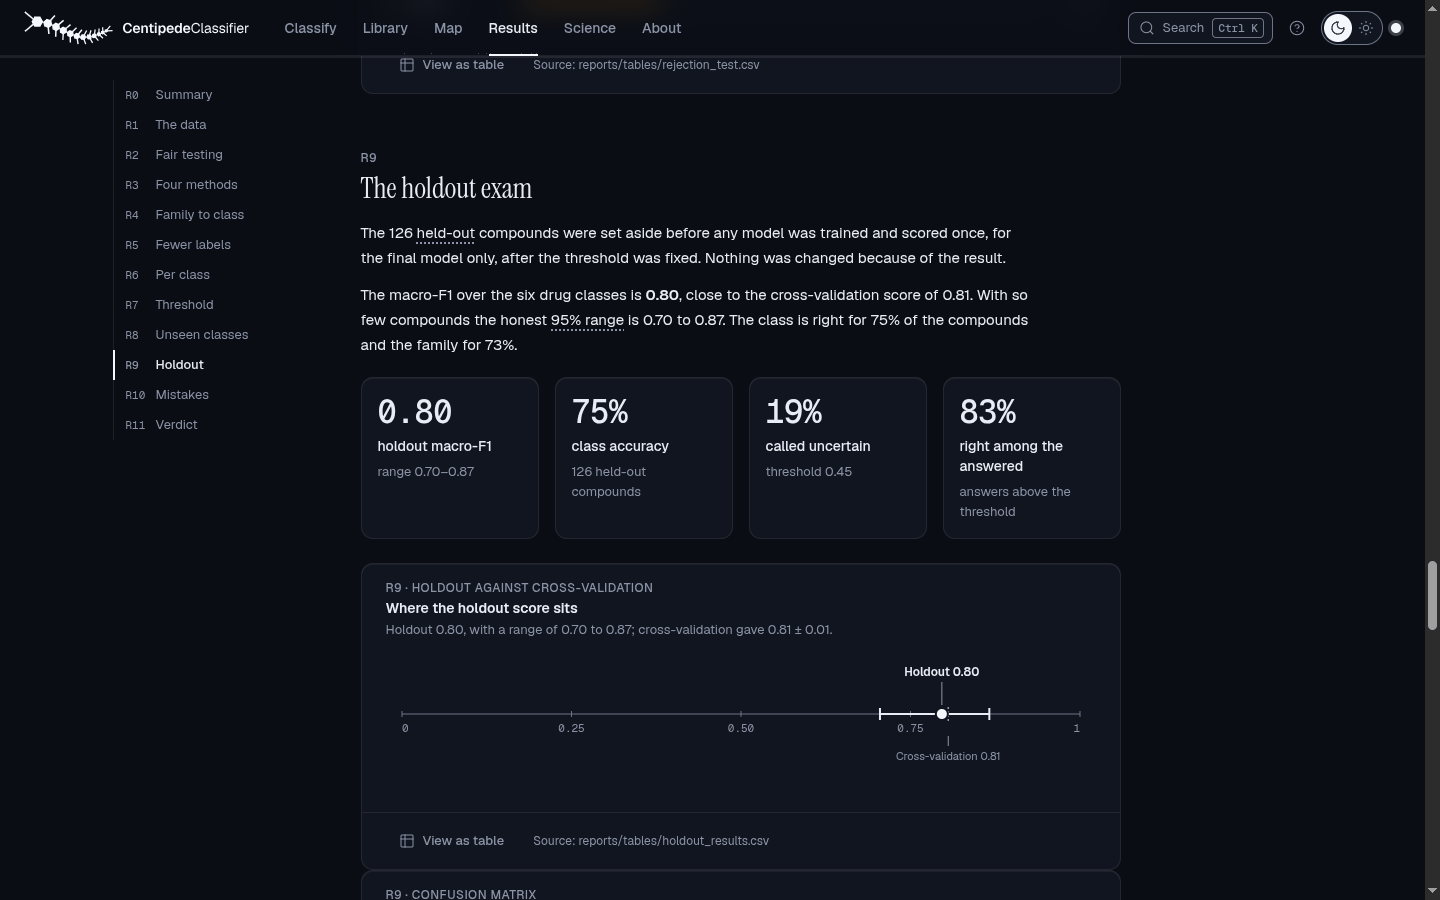
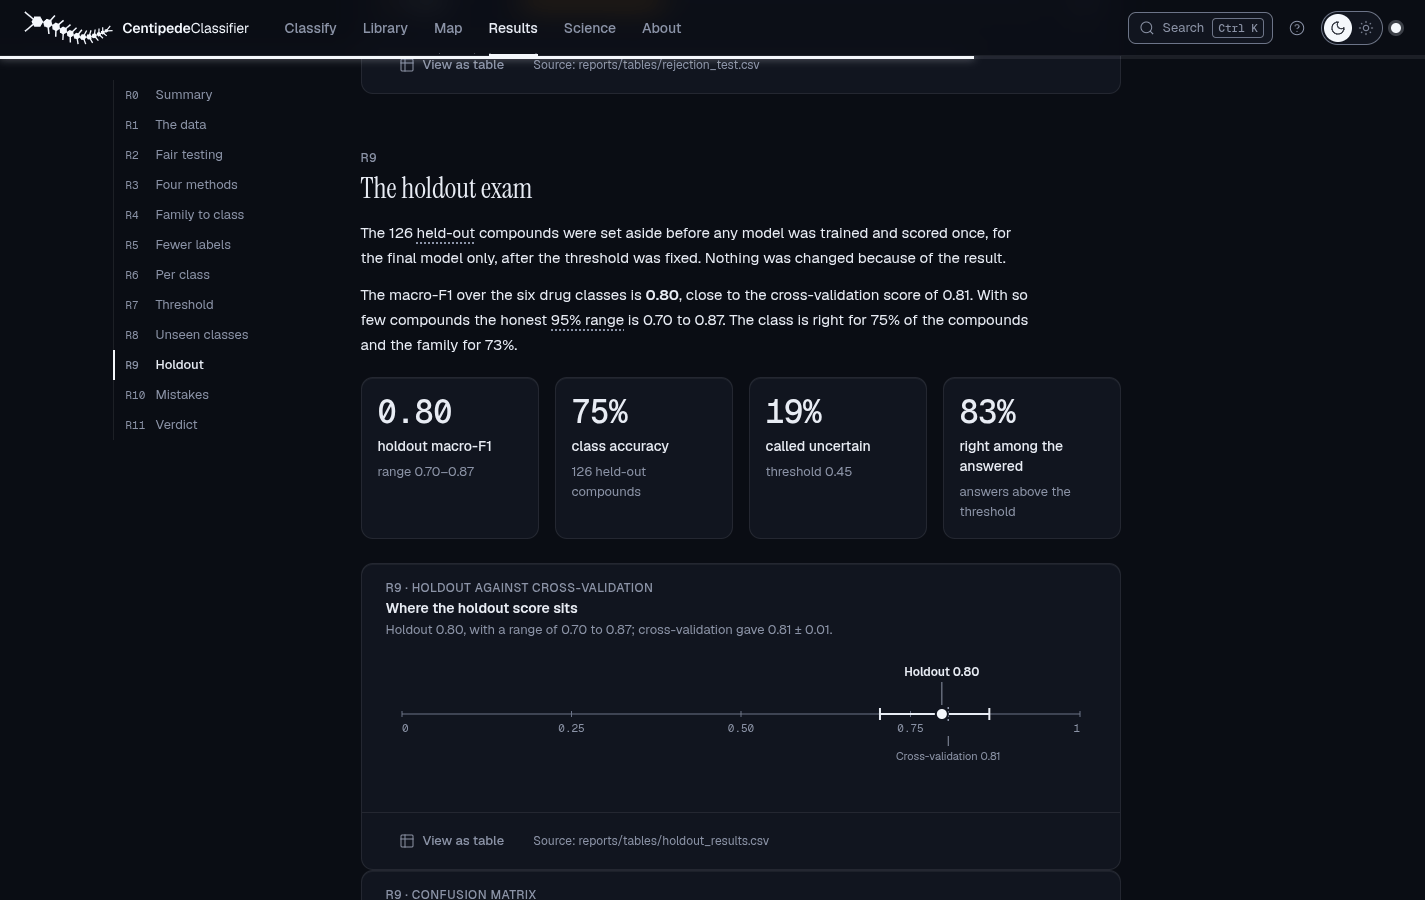
Fix the reading progress line and refresh the screenshots

diff --git a/app/frontend/app/globals.css b/app/frontend/app/globals.css
@@ -206,7 +206,8 @@ body { padding-bottom: var(--tabbar-h, 60px); }
   .ms-nav--app .ms-toggle { display: inline-flex; }
 }
 .ms-footer--app { margin-top: var(--space-16); }
-.ms-progress--fixed { position: fixed; top: var(--nav-height); left: 0; right: 0; z-index: 39; }
+.ms-progress--fixed { position: fixed; top: var(--nav-height); left: 0; right: 0; z-index: 39; height: 3px; background: color-mix(in srgb, var(--text) 8%, transparent); }
+.ms-progress--fixed i { box-shadow: 0 0 8px color-mix(in srgb, var(--signal) 55%, transparent); }
 .toc-wrap { display: none; }
 @media (min-width: 1100px) { .toc-wrap { display: block; position: sticky; top: calc(var(--nav-height) + var(--space-6)); } }
 .ms-palette__in input:focus-visible { box-shadow: none; border-radius: 0; }

diff --git a/app/frontend/components/toc.tsx b/app/frontend/components/toc.tsx
@@ -13,7 +13,7 @@ export function ScrollProgress() {
     window.addEventListener("scroll", onScroll, { passive: true });
     return () => window.removeEventListener("scroll", onScroll);
   }, []);
-  return <div className="ms-progress ms-progress--fixed" style={{ ["--p" as string]: p }} role="progressbar" aria-label="Reading progress" aria-valuenow={Math.round(p * 100)} aria-valuemin={0} aria-valuemax={100} />;
+  return <div className="ms-progress ms-progress--fixed" style={{ ["--p" as string]: p }} role="progressbar" aria-label="Reading progress" aria-valuenow={Math.round(p * 100)} aria-valuemin={0} aria-valuemax={100}><i /></div>;
 }
 
 /** Sticky table of contents; the section in view carries aria-current. Hidden on phones. */
